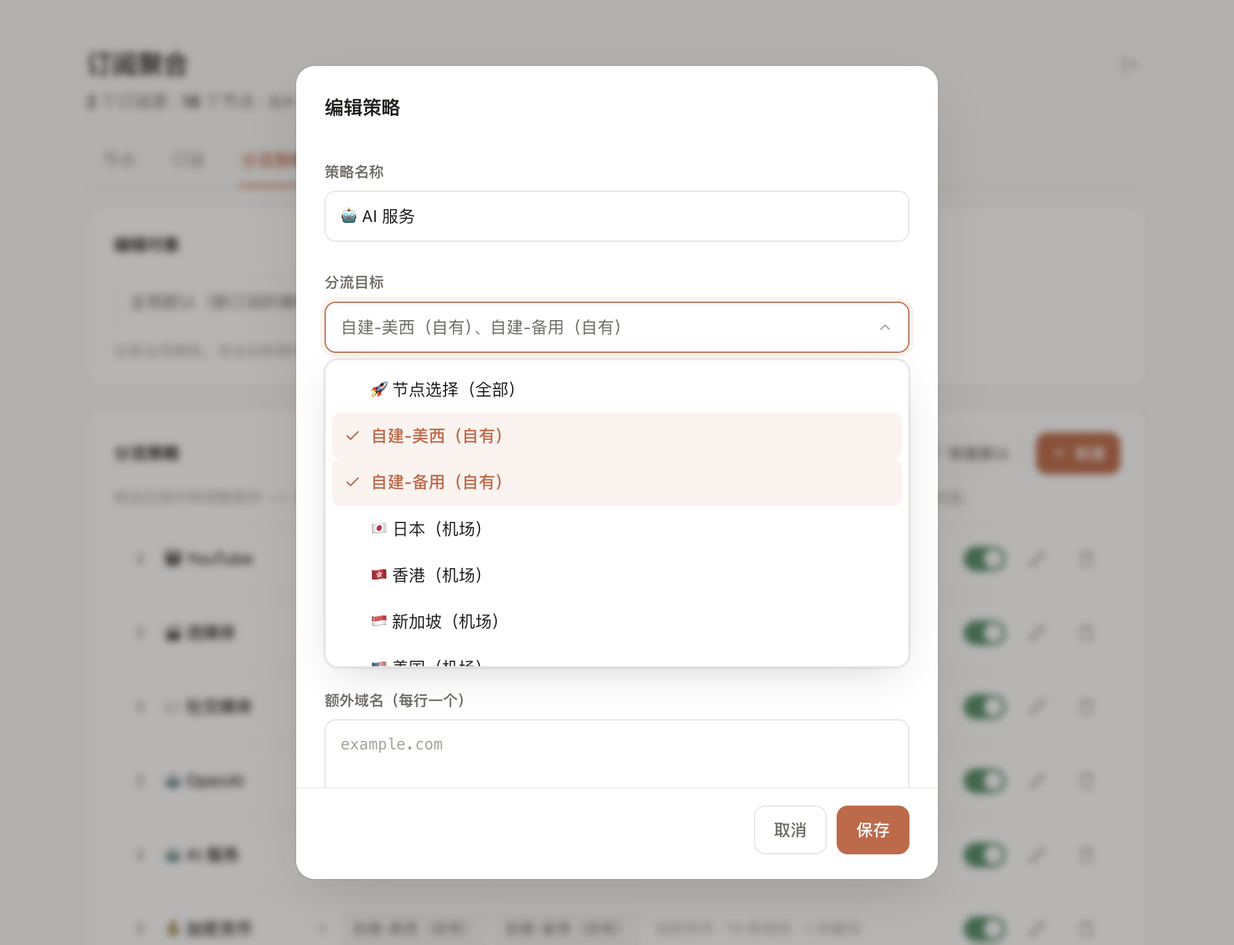
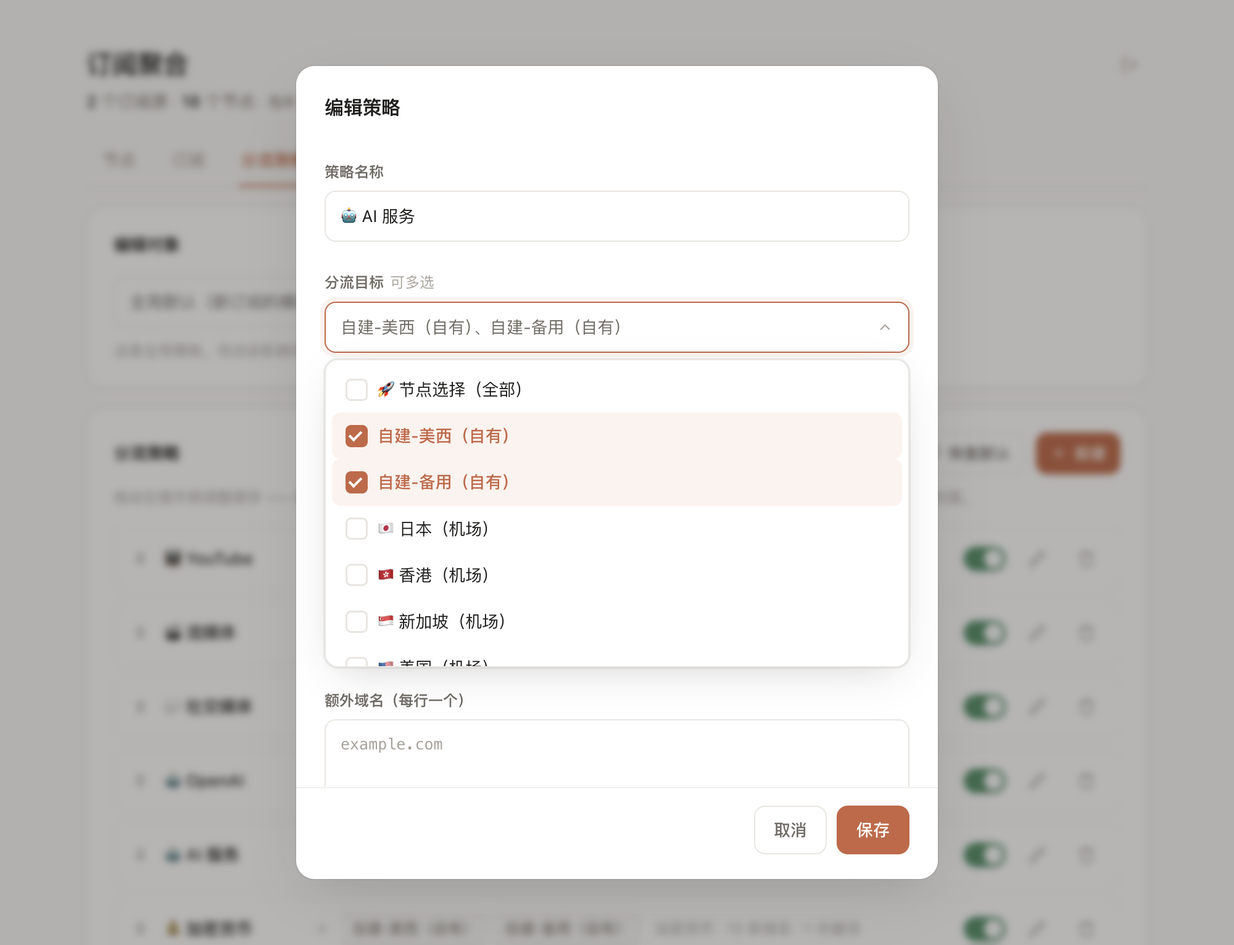
feat: 分流目标多选可见化，拖拽落点改为虚线空槽
多选一直是支持的，但只选一项时下拉长得和单选一模一样，没人会去点第二下。
补上常驻复选框、「可多选」标签、「（已选 N 项）」计数，让能力自己说话。

拖拽时原行只是淡化，浏览器另外渲染的拖影叠在上面，看着像重影。
改成整行退成虚线空槽（内容 opacity:0 但保留行高），落点一目了然。

测试补两组断言防回归，README 同步截图与断言数。

diff --git a/docs/demo.html b/docs/demo.html
@@ -94,8 +94,21 @@ input::placeholder,textarea::placeholder{color:var(--tx3)}
 .selo{padding:8px 10px;border-radius:7px;font-size:13.5px;cursor:pointer;display:flex;align-items:center;gap:8px;transition:background .12s}
 .selo:hover{background:var(--hov)}
 .selo.on{color:var(--acc);font-weight:500}
+/* 多选：左侧常驻复选框。只在选中时显示对勾的话，外观和单选毫无区别，
+   用户根本看不出能多选。 */
+.sel.multi .selo{position:relative;padding-left:11px}
+.sel.multi .selo .ic{display:none}
+.sel.multi .selo::before{content:'';flex-shrink:0;width:15px;height:15px;border-radius:4.5px;
+  border:1.5px solid var(--bd);background:var(--card);transition:background .14s var(--e),border-color .14s var(--e)}
+.sel.multi .selo::after{content:'';position:absolute;left:16px;top:50%;width:4px;height:8px;
+  border:2px solid #fff;border-top:0;border-left:0;transform:translateY(-62%) rotate(45deg);
+  opacity:0;transition:opacity .14s var(--e)}
+.sel.multi .selo:hover::before{border-color:var(--tx3)}
+.sel.multi .selo.on::before{background:var(--acc);border-color:var(--acc)}
+.sel.multi .selo.on::after{opacity:1}
 .sel.multi .selo.on{background:var(--accBg)}
 .sel.multi .selp{padding-bottom:5px}
+.lb .opt{font-weight:400;color:var(--tx3);margin-left:5px}
 .selo .ic{opacity:0}
 .selo.on .ic{opacity:1}
 
@@ -109,10 +122,11 @@ input::placeholder,textarea::placeholder{color:var(--tx3)}
 /* 策略行 */
 .pol{display:flex;gap:11px;align-items:center;padding:11px 12px;border:1px solid var(--bd2);border-radius:11px;margin-bottom:7px;background:var(--card);transition:border-color .16s var(--e),background .16s var(--e),opacity .16s,box-shadow .16s var(--e)}
 .pol:hover{border-color:var(--bd);background:var(--hov)}
-/* 拖拽中：内容保持可见，只淡化微缩。早先用 visibility:hidden 抹掉内容，
-   行高还占着，看起来像列表中间破了个洞。 */
-.pol.drag{opacity:.38;transform:scale(.985);background:var(--hov);border-color:var(--accBd)}
-.pol.drag .grip{color:var(--acc)}
+/* 拖拽中：原行退成虚线空槽，作为落点指示。
+   浏览器会另外渲染一张跟随鼠标的元素快照，原行若还留着淡淡的内容，
+   两者叠在一起就是重影。用 opacity:0 抹掉内容但保留行高。 */
+.pol.drag{background:var(--accBg);border:1.5px dashed var(--accBd);box-shadow:none}
+.pol.drag > *{opacity:0}
 .pol{cursor:default}
 .pol[draggable="true"]{cursor:grabbing}
 .pol.off{opacity:.5}
@@ -258,7 +272,7 @@ const authed = true, inited = true
 const app = document.getElementById('app')
 const tsBox = document.getElementById('toasts')
 const esc = s => String(s).replace(/[&<>"']/g, c => ({'&':'&amp;','<':'&lt;','>':'&gt;','"':'&quot;',"'":'&#39;'}[c]))
-const S={"ok":true,"at":1785843324501,"stale":false,"errors":[],"subUrl":"https://sub.example.com/sub?token=TOKEN-EXAMPLE","upstreams":[{"id":"a1","name":"示例机场 A","url":"https://a.example.com/api/v1/client/subscribe?token=xxxx","enabled":true},{"id":"a2","name":"示例机场 B","url":"https://b.example.com/sub?token=yyyy","enabled":true}],"meta":{"a1":{"up":98135617755,"down":321529098078,"total":1288490188800,"expire":1786361724},"a2":{"up":0,"down":966367641600,"total":1073741824000,"expire":1801395324}},"bySrc":{"jp":{"示例机场 A":4},"hk":{"示例机场 A":4,"示例机场 B":2},"sg":{"示例机场 B":3},"us":{"示例机场 B":5}},"regions":[{"key":"jp","flag":"🇯🇵","cn":"日本","nodes":[{"key":"jp::0","name":"🇯🇵 日本 01","auto":"🇯🇵 日本 01","raw":"2x专线-日本-1","upName":"示例机场 A","custom":false,"off":false},{"key":"jp::1","name":"🇯🇵 东京主力","auto":"🇯🇵 日本 02","raw":"2x专线-日本-2","upName":"示例机场 A","custom":true,"off":false},{"key":"jp::2","name":"🇯🇵 日本 03","auto":"🇯🇵 日本 03","raw":"2x专线-日本-3","upName":"示例机场 A","custom":false,"off":false},{"key":"jp::3","name":"🇯🇵 日本 04","auto":"🇯🇵 日本 04","raw":"2x专线-日本-4","upName":"示例机场 A","custom":false,"off":false}]},{"key":"hk","flag":"🇭🇰","cn":"香港","nodes":[{"key":"hk::0","name":"🇭🇰 香港 01","auto":"🇭🇰 香港 01","raw":"2x专线-香港-1","upName":"示例机场 A","custom":false,"off":false},{"key":"hk::1","name":"🇭🇰 香港 02","auto":"🇭🇰 香港 02","raw":"2x专线-香港-2","upName":"示例机场 A","custom":false,"off":false},{"key":"hk::2","name":"🇭🇰 香港 03","auto":"🇭🇰 香港 03","raw":"2x专线-香港-3","upName":"示例机场 A","custom":false,"off":false},{"key":"hk::3","name":"🇭🇰 香港 04","auto":"🇭🇰 香港 04","raw":"2x专线-香港-4","upName":"示例机场 A","custom":false,"off":false},{"key":"hk::4","name":"🇭🇰 香港 05","auto":"🇭🇰 香港 05","raw":"2x专线-香港-5","upName":"示例机场 A","custom":false,"off":false},{"key":"hk::5","name":"🇭🇰 香港 06","auto":"🇭🇰 香港 06","raw":"2x专线-香港-6","upName":"示例机场 A","custom":false,"off":false}]},{"key":"sg","flag":"🇸🇬","cn":"新加坡","nodes":[{"key":"sg::0","name":"🇸🇬 新加坡 01","auto":"🇸🇬 新加坡 01","raw":"2x专线-新加坡-1","upName":"示例机场 B","custom":false,"off":false},{"key":"sg::1","name":"🇸🇬 新加坡 02","auto":"🇸🇬 新加坡 02","raw":"2x专线-新加坡-2","upName":"示例机场 B","custom":false,"off":false},{"key":"sg::2","name":"🇸🇬 新加坡 03","auto":"🇸🇬 新加坡 03","raw":"2x专线-新加坡-3","upName":"示例机场 B","custom":false,"off":false}]},{"key":"us","flag":"🇺🇸","cn":"美国","nodes":[{"key":"us::0","name":"🇺🇸 美国 01","auto":"🇺🇸 美国 01","raw":"2x专线-美国-1","upName":"示例机场 B","custom":false,"off":false},{"key":"us::1","name":"🇺🇸 美国 02","auto":"🇺🇸 美国 02","raw":"2x专线-美国-2","upName":"示例机场 B","custom":false,"off":false},{"key":"us::2","name":"🇺🇸 美国 03","auto":"🇺🇸 美国 03","raw":"2x专线-美国-3","upName":"示例机场 B","custom":false,"off":false},{"key":"us::3","name":"🇺🇸 美国 04","auto":"🇺🇸 美国 04","raw":"2x专线-美国-4","upName":"示例机场 B","custom":false,"off":false},{"key":"us::4","name":"🇺🇸 美国 05","auto":"🇺🇸 美国 05","raw":"2x专线-美国-5","upName":"示例机场 B","custom":false,"off":false}]}]};const R={"ok":true,"newToken":"TOKEN-EXAMPLE-NEW-000000000000","profiles":[{"id":"main","name":"主订阅","token":"TOKEN-EXAMPLE-MAIN-0000000000000","enabled":true,"own":"all","ups":"all","regions":"all","pols":"all","policies":"inherit","mode":"whitelist","note":""},{"id":"f2","name":"手机","token":"TOKEN-EXAMPLE-PHONE-000000000000","enabled":true,"own":["a"],"ups":"all","regions":["jp","hk"],"pols":"all","policies":[{"id":"ai","name":"🤖 AI 服务"},{"id":"m","name":"📺 YouTube"}],"mode":"blacklist","note":"省电，精简策略"},{"id":"f3","name":"共享给朋友","token":"TOKEN-EXAMPLE-SHARED-00000000000","enabled":true,"own":[],"ups":["a1"],"regions":["jp","sg"],"pols":"all","policies":"inherit","mode":"whitelist","note":"不含自建节点"}],"opts":{"own":[{"v":"a","label":"自建-美西"},{"v":"b","label":"自建-备用"}],"ups":[{"v":"a1","label":"示例机场 A"},{"v":"a2","label":"示例机场 B"}],"regions":[{"v":"jp","label":"🇯🇵 日本"},{"v":"hk","label":"🇭🇰 香港"},{"v":"sg","label":"🇸🇬 新加坡"},{"v":"us","label":"🇺🇸 美国"}],"pols":[{"v":"youtube","label":"📺 YouTube"},{"v":"media","label":"🎬 流媒体"},{"v":"social","label":"💬 社交媒体"},{"v":"openai","label":"🤖 OpenAI"},{"v":"ai","label":"🤖 AI 服务"},{"v":"crypto","label":"💰 加密货币"},{"v":"tg","label":"✈ Telegram"},{"v":"dev","label":"⚙ 开发者"},{"v":"apple","label":"🍎 Apple"},{"v":"ms","label":"🪟 Microsoft"},{"v":"misc","label":"🌐 常用境外"}]}};const G=[{"id":"youtube","name":"📺 YouTube","target":"region:jp","strict":false,"presets":["youtube"],"domains":[],"keywords":[],"processes":[],"enabled":true},{"id":"media","name":"🎬 流媒体","target":"region:jp","strict":false,"presets":["media"],"domains":[],"keywords":[],"processes":[],"enabled":true},{"id":"social","name":"💬 社交媒体","target":"region:jp","strict":false,"presets":["social"],"domains":[],"keywords":[],"processes":[],"enabled":true},{"id":"openai","name":"🤖 OpenAI","target":["own:a","own:b"],"strict":true,"presets":["openai"],"domains":[],"keywords":[],"processes":["ChatGPT"],"enabled":true},{"id":"ai","name":"🤖 AI 服务","target":["own:a","own:b"],"strict":true,"presets":["ai","aitest","google"],"domains":[],"keywords":[],"processes":[],"enabled":true},{"id":"crypto","name":"💰 加密货币","target":["own:a","own:b"],"strict":false,"presets":["crypto"],"domains":[],"keywords":["binance"],"processes":[],"enabled":true},{"id":"tg","name":"✈ Telegram","target":"all","strict":false,"presets":["telegram"],"domains":[],"keywords":[],"processes":[],"enabled":true},{"id":"dev","name":"⚙ 开发者","target":"all","strict":false,"presets":["dev"],"domains":[],"keywords":[],"processes":[],"enabled":true},{"id":"apple","name":"🍎 Apple","target":"direct","strict":false,"presets":["apple"],"domains":[],"keywords":[],"processes":[],"enabled":true},{"id":"ms","name":"🪟 Microsoft","target":"direct","strict":false,"presets":["microsoft"],"domains":[],"keywords":[],"processes":[],"enabled":true},{"id":"misc","name":"🌐 常用境外","target":"all","strict":false,"presets":["misc"],"domains":[],"keywords":[],"processes":[],"enabled":true}];const LIB={"openai":{"name":"OpenAI","hint":"ChatGPT 全链路，含认证/支付/风控依赖","domains":["chatgpt.com","openai.com","oaistatic.com","oaiusercontent.com","chat.openai.com","desktop.chat.openai.com","ios.chat.openai.com","android.chat.openai.com","auth.openai.com","auth0.openai.com","setup.auth.openai.com","cdn.workos.com","setup.workos.com","forwarder.workos.com","images.workoscdn.com","workos.imgix.net","ct.sendgrid.net","js.stripe.com","stripe.com","statsig.com","statsigapi.net","events.statsigapi.net","featuregates.org","featureassets.org","prodregistryv2.org","intercom.io","intercomcdn.com","js.intercomcdn.com","rum.browser-intake-datadoghq.com","browser-intake-datadoghq.com","o207216.ingest.sentry.io","o33249.ingest.sentry.io","sentry.io","chatgpt.livekit.cloud","host.livekit.cloud","turn.livekit.cloud","challenges.cloudflare.com","client-api.arkoselabs.com","openai-api.arkoselabs.com","static.cloudflareinsights.com","algolia.net","auth0.com","launchdarkly.com","segment.io","openaiapi-site.azureedge.net","production-openaicom-storage.azureedge.net","openaicomproductionae4b.blob.core.windows.net","openaicom-api-bdcpf8c6d2e9atf6.z01.azurefd.net"]},"ai":{"name":"AI 服务","hint":"Claude / Gemini / DeepSeek / Copilot 等","domains":["anthropic.com","claude.ai","api.anthropic.com","googleapis.com","gemini.google.com","generativelanguage.googleapis.com","bard.google.com","deepmind.google","aistudio.google.com","cohere.ai","api.cohere.ai","mistral.ai","api.mistral.ai","perplexity.ai","perplexity.com","githubcopilot.com","copilot.microsoft.com","huggingface.co","together.xyz","fireworks.ai","groq.com","api.groq.com","deepseek.com","api.deepseek.com","x.ai","grok.com","moonshot.cn","bigmodel.cn"]},"aitest":{"name":"IP 检测","hint":"验证出口用，务必与服务端 ai-proxy 表保持一致","domains":["ping0.cc","ip.net.coffee"]},"google":{"name":"Google","hint":"账号基础设施；不整族同出口会被判定异地","domains":["google.com","gstatic.com","googleusercontent.com","google.cn","googlesource.com","googletagmanager.com","google-analytics.com","dns.google","withgoogle.com","goo.gl","ggpht.com"]},"media":{"name":"流媒体","hint":"Netflix / Disney+ / Spotify / Twitch 等","domains":["netflix.com","nflxvideo.net","nflximg.net","nflxext.com","nflxso.net","spotify.com","scdn.co","spotifycdn.com","disneyplus.com","dssott.com","bamgrid.com","disney-plus.net","hulu.com","hbomax.com","max.com","primevideo.com","aiv-cdn.net","twitch.tv","ttvnw.net","jtvnw.net","crunchyroll.com","abema.tv","nicovideo.jp","bilibili.tv","iq.com","viu.com"]},"youtube":{"name":"YouTube","hint":"含 API 与 CDN；须排在 Google 规则之前","domains":["youtube.com","youtu.be","googlevideo.com","ytimg.com","youtube-nocookie.com","youtubei.googleapis.com","yt3.ggpht.com"]},"social":{"name":"社交媒体","hint":"X / Meta 系 / TikTok / Reddit 等","domains":["twitter.com","x.com","t.co","twimg.com","twitterinc.com","instagram.com","cdninstagram.com","facebook.com","fbcdn.net","messenger.com","threads.net","whatsapp.com","tiktok.com","tiktokv.com","tiktokcdn.com","tiktokcdn-us.com","byteoversea.com","ibytedtos.com","muscdn.com","musical.ly","reddit.com","redditmedia.com","redd.it","redditstatic.com","discord.com","discord.gg","discordapp.com","discordapp.net","pinterest.com","tumblr.com","pixiv.net","pximg.net","medium.com","quora.com"]},"telegram":{"name":"Telegram","hint":"含 DC 网段，建议配合 IP-CIDR","domains":["telegram.org","t.me","telegram.me","telesco.pe","tdesktop.com","telegra.ph"]},"apple":{"name":"Apple","hint":"默认直连更快；跨区账号才需走代理","domains":["apple.com","icloud.com","icloud-content.com","mzstatic.com","apple-cloudkit.com","cdn-apple.com","apple.news","applemusic.com","itunes.com","me.com","aaplimg.com"]},"microsoft":{"name":"Microsoft","hint":"Office / OneDrive / Teams / Xbox","domains":["microsoft.com","microsoftonline.com","office.com","office365.com","live.com","windows.net","windowsupdate.com","msftconnecttest.com","sharepoint.com","onedrive.com","skype.com","teams.microsoft.com","xbox.com","xboxlive.com","msn.com","bing.com"]},"dev":{"name":"开发者","hint":"GitHub / npm / Docker / StackOverflow","domains":["github.com","github.io","githubusercontent.com","githubassets.com","gitlab.com","bitbucket.org","npmjs.com","npmjs.org","yarnpkg.com","docker.com","docker.io","pypi.org","pythonhosted.org","rubygems.org","crates.io","golang.org","go.dev","stackoverflow.com","stackexchange.com","sourceforge.net","jsdelivr.net","unpkg.com"]},"crypto":{"name":"加密货币","hint":"交易所与行情站","domains":["binance.com","binance.us","okx.com","bybit.com","coinbase.com","kraken.com","huobi.com","gate.io","kucoin.com","bitfinex.com","coinmarketcap.com","coingecko.com","tradingview.com"]},"misc":{"name":"常用境外站","hint":"Wikipedia / 归档 / 视频等","domains":["wikipedia.org","wikimedia.org","archive.org","vimeo.com","dailymotion.com","imgur.com","patreon.com","producthunt.com","notion.so","figma.com","dropbox.com","slack.com","zoom.us","steamcommunity.com","steampowered.com"]}};const TG=[{"v":"all","label":"🚀 节点选择（全部）"},{"v":"own:a","label":"自建-美西（自有）"},{"v":"own:b","label":"自建-备用（自有）"},{"v":"region:jp","label":"🇯🇵 日本（机场）"},{"v":"region:hk","label":"🇭🇰 香港（机场）"},{"v":"region:sg","label":"🇸🇬 新加坡（机场）"},{"v":"region:us","label":"🇺🇸 美国（机场）"},{"v":"direct","label":"直连"},{"v":"reject","label":"拒绝"}];const OW={"a":{"name":"自建-美西","type":"vless","s":"node.example.com","p":443,"u":"11111111-2222-3333-4444-555555555555","sni":"www.bing.com","pk":"PLACEHOLDERPUBKEY000000000000000000000000","sid":"0123456789abcdef","net":"tcp","flow":"xtls-rprx-vision"},"b":{"name":"自建-备用","type":"hysteria2","s":"node.example.com","p":8443,"ports":"50000-50020","u":"11111111-2222-3333-4444-555555555555","sni":"node.example.com","obfs":"salamander","opwd":"obfspass"}};
+const S={"ok":true,"at":1785848668086,"stale":false,"errors":[],"subUrl":"https://sub.example.com/sub?token=TOKEN-EXAMPLE","upstreams":[{"id":"a1","name":"示例机场 A","url":"https://a.example.com/api/v1/client/subscribe?token=xxxx","enabled":true},{"id":"a2","name":"示例机场 B","url":"https://b.example.com/sub?token=yyyy","enabled":true}],"meta":{"a1":{"up":98135617755,"down":321529098078,"total":1288490188800,"expire":1786367068},"a2":{"up":0,"down":966367641600,"total":1073741824000,"expire":1801400668}},"bySrc":{"jp":{"示例机场 A":4},"hk":{"示例机场 A":4,"示例机场 B":2},"sg":{"示例机场 B":3},"us":{"示例机场 B":5}},"regions":[{"key":"jp","flag":"🇯🇵","cn":"日本","nodes":[{"key":"jp::0","name":"🇯🇵 日本 01","auto":"🇯🇵 日本 01","raw":"2x专线-日本-1","upName":"示例机场 A","custom":false,"off":false},{"key":"jp::1","name":"🇯🇵 东京主力","auto":"🇯🇵 日本 02","raw":"2x专线-日本-2","upName":"示例机场 A","custom":true,"off":false},{"key":"jp::2","name":"🇯🇵 日本 03","auto":"🇯🇵 日本 03","raw":"2x专线-日本-3","upName":"示例机场 A","custom":false,"off":false},{"key":"jp::3","name":"🇯🇵 日本 04","auto":"🇯🇵 日本 04","raw":"2x专线-日本-4","upName":"示例机场 A","custom":false,"off":false}]},{"key":"hk","flag":"🇭🇰","cn":"香港","nodes":[{"key":"hk::0","name":"🇭🇰 香港 01","auto":"🇭🇰 香港 01","raw":"2x专线-香港-1","upName":"示例机场 A","custom":false,"off":false},{"key":"hk::1","name":"🇭🇰 香港 02","auto":"🇭🇰 香港 02","raw":"2x专线-香港-2","upName":"示例机场 A","custom":false,"off":false},{"key":"hk::2","name":"🇭🇰 香港 03","auto":"🇭🇰 香港 03","raw":"2x专线-香港-3","upName":"示例机场 A","custom":false,"off":false},{"key":"hk::3","name":"🇭🇰 香港 04","auto":"🇭🇰 香港 04","raw":"2x专线-香港-4","upName":"示例机场 A","custom":false,"off":false},{"key":"hk::4","name":"🇭🇰 香港 05","auto":"🇭🇰 香港 05","raw":"2x专线-香港-5","upName":"示例机场 A","custom":false,"off":false},{"key":"hk::5","name":"🇭🇰 香港 06","auto":"🇭🇰 香港 06","raw":"2x专线-香港-6","upName":"示例机场 A","custom":false,"off":false}]},{"key":"sg","flag":"🇸🇬","cn":"新加坡","nodes":[{"key":"sg::0","name":"🇸🇬 新加坡 01","auto":"🇸🇬 新加坡 01","raw":"2x专线-新加坡-1","upName":"示例机场 B","custom":false,"off":false},{"key":"sg::1","name":"🇸🇬 新加坡 02","auto":"🇸🇬 新加坡 02","raw":"2x专线-新加坡-2","upName":"示例机场 B","custom":false,"off":false},{"key":"sg::2","name":"🇸🇬 新加坡 03","auto":"🇸🇬 新加坡 03","raw":"2x专线-新加坡-3","upName":"示例机场 B","custom":false,"off":false}]},{"key":"us","flag":"🇺🇸","cn":"美国","nodes":[{"key":"us::0","name":"🇺🇸 美国 01","auto":"🇺🇸 美国 01","raw":"2x专线-美国-1","upName":"示例机场 B","custom":false,"off":false},{"key":"us::1","name":"🇺🇸 美国 02","auto":"🇺🇸 美国 02","raw":"2x专线-美国-2","upName":"示例机场 B","custom":false,"off":false},{"key":"us::2","name":"🇺🇸 美国 03","auto":"🇺🇸 美国 03","raw":"2x专线-美国-3","upName":"示例机场 B","custom":false,"off":false},{"key":"us::3","name":"🇺🇸 美国 04","auto":"🇺🇸 美国 04","raw":"2x专线-美国-4","upName":"示例机场 B","custom":false,"off":false},{"key":"us::4","name":"🇺🇸 美国 05","auto":"🇺🇸 美国 05","raw":"2x专线-美国-5","upName":"示例机场 B","custom":false,"off":false}]}]};const R={"ok":true,"newToken":"TOKEN-EXAMPLE-NEW-000000000000","profiles":[{"id":"main","name":"主订阅","token":"TOKEN-EXAMPLE-MAIN-0000000000000","enabled":true,"own":"all","ups":"all","regions":"all","pols":"all","policies":"inherit","mode":"whitelist","note":""},{"id":"f2","name":"手机","token":"TOKEN-EXAMPLE-PHONE-000000000000","enabled":true,"own":["a"],"ups":"all","regions":["jp","hk"],"pols":"all","policies":[{"id":"ai","name":"AI"},{"id":"m","name":"YouTube"}],"mode":"blacklist","note":"省电，精简策略"},{"id":"f3","name":"共享给朋友","token":"TOKEN-EXAMPLE-SHARED-00000000000","enabled":true,"own":[],"ups":["a1"],"regions":["jp","sg"],"pols":"all","policies":"inherit","mode":"whitelist","note":"不含自建节点"}],"opts":{"own":[{"v":"a","label":"自建-美西"},{"v":"b","label":"自建-备用"}],"ups":[{"v":"a1","label":"示例机场 A"},{"v":"a2","label":"示例机场 B"}],"regions":[{"v":"jp","label":"🇯🇵 日本"},{"v":"hk","label":"🇭🇰 香港"},{"v":"sg","label":"🇸🇬 新加坡"},{"v":"us","label":"🇺🇸 美国"}],"pols":[{"v":"youtube","label":"📺 YouTube"},{"v":"media","label":"🎬 流媒体"},{"v":"social","label":"💬 社交媒体"},{"v":"openai","label":"🤖 OpenAI"},{"v":"ai","label":"🤖 AI 服务"},{"v":"crypto","label":"💰 加密货币"},{"v":"tg","label":"✈ Telegram"},{"v":"dev","label":"⚙ 开发者"},{"v":"apple","label":"🍎 Apple"},{"v":"ms","label":"🪟 Microsoft"},{"v":"misc","label":"🌐 常用境外"}]}};const G=[{"id":"youtube","name":"📺 YouTube","target":"region:jp","strict":false,"presets":["youtube"],"domains":[],"keywords":[],"processes":[],"enabled":true},{"id":"media","name":"🎬 流媒体","target":"region:jp","strict":false,"presets":["media"],"domains":[],"keywords":[],"processes":[],"enabled":true},{"id":"social","name":"💬 社交媒体","target":"region:jp","strict":false,"presets":["social"],"domains":[],"keywords":[],"processes":[],"enabled":true},{"id":"openai","name":"🤖 OpenAI","target":["own:a","own:b"],"strict":true,"presets":["openai"],"domains":[],"keywords":[],"processes":["ChatGPT"],"enabled":true},{"id":"ai","name":"🤖 AI 服务","target":["own:a","own:b"],"strict":true,"presets":["ai","aitest","google"],"domains":[],"keywords":[],"processes":[],"enabled":true},{"id":"crypto","name":"💰 加密货币","target":["own:a","own:b"],"strict":false,"presets":["crypto"],"domains":[],"keywords":["binance"],"processes":[],"enabled":true},{"id":"tg","name":"✈ Telegram","target":"all","strict":false,"presets":["telegram"],"domains":[],"keywords":[],"processes":[],"enabled":true},{"id":"dev","name":"⚙ 开发者","target":"all","strict":false,"presets":["dev"],"domains":[],"keywords":[],"processes":[],"enabled":true},{"id":"apple","name":"🍎 Apple","target":"direct","strict":false,"presets":["apple"],"domains":[],"keywords":[],"processes":[],"enabled":true},{"id":"ms","name":"🪟 Microsoft","target":"direct","strict":false,"presets":["microsoft"],"domains":[],"keywords":[],"processes":[],"enabled":true},{"id":"misc","name":"🌐 常用境外","target":"all","strict":false,"presets":["misc"],"domains":[],"keywords":[],"processes":[],"enabled":true}];const LIB={"openai":{"name":"OpenAI","hint":"ChatGPT 全链路，含认证/支付/风控依赖","domains":["chatgpt.com","openai.com","oaistatic.com","oaiusercontent.com","chat.openai.com","desktop.chat.openai.com","ios.chat.openai.com","android.chat.openai.com","auth.openai.com","auth0.openai.com","setup.auth.openai.com","cdn.workos.com","setup.workos.com","forwarder.workos.com","images.workoscdn.com","workos.imgix.net","ct.sendgrid.net","js.stripe.com","stripe.com","statsig.com","statsigapi.net","events.statsigapi.net","featuregates.org","featureassets.org","prodregistryv2.org","intercom.io","intercomcdn.com","js.intercomcdn.com","rum.browser-intake-datadoghq.com","browser-intake-datadoghq.com","o207216.ingest.sentry.io","o33249.ingest.sentry.io","sentry.io","chatgpt.livekit.cloud","host.livekit.cloud","turn.livekit.cloud","challenges.cloudflare.com","client-api.arkoselabs.com","openai-api.arkoselabs.com","static.cloudflareinsights.com","algolia.net","auth0.com","launchdarkly.com","segment.io","openaiapi-site.azureedge.net","production-openaicom-storage.azureedge.net","openaicomproductionae4b.blob.core.windows.net","openaicom-api-bdcpf8c6d2e9atf6.z01.azurefd.net"]},"ai":{"name":"AI 服务","hint":"Claude / Gemini / DeepSeek / Copilot 等","domains":["anthropic.com","claude.ai","api.anthropic.com","googleapis.com","gemini.google.com","generativelanguage.googleapis.com","bard.google.com","deepmind.google","aistudio.google.com","cohere.ai","api.cohere.ai","mistral.ai","api.mistral.ai","perplexity.ai","perplexity.com","githubcopilot.com","copilot.microsoft.com","huggingface.co","together.xyz","fireworks.ai","groq.com","api.groq.com","deepseek.com","api.deepseek.com","x.ai","grok.com","moonshot.cn","bigmodel.cn"]},"aitest":{"name":"IP 检测","hint":"验证出口用，务必与服务端 ai-proxy 表保持一致","domains":["ping0.cc","ip.net.coffee"]},"google":{"name":"Google","hint":"账号基础设施；不整族同出口会被判定异地","domains":["google.com","gstatic.com","googleusercontent.com","google.cn","googlesource.com","googletagmanager.com","google-analytics.com","dns.google","withgoogle.com","goo.gl","ggpht.com"]},"media":{"name":"流媒体","hint":"Netflix / Disney+ / Spotify / Twitch 等","domains":["netflix.com","nflxvideo.net","nflximg.net","nflxext.com","nflxso.net","spotify.com","scdn.co","spotifycdn.com","disneyplus.com","dssott.com","bamgrid.com","disney-plus.net","hulu.com","hbomax.com","max.com","primevideo.com","aiv-cdn.net","twitch.tv","ttvnw.net","jtvnw.net","crunchyroll.com","abema.tv","nicovideo.jp","bilibili.tv","iq.com","viu.com"]},"youtube":{"name":"YouTube","hint":"含 API 与 CDN；须排在 Google 规则之前","domains":["youtube.com","youtu.be","googlevideo.com","ytimg.com","youtube-nocookie.com","youtubei.googleapis.com","yt3.ggpht.com"]},"social":{"name":"社交媒体","hint":"X / Meta 系 / TikTok / Reddit 等","domains":["twitter.com","x.com","t.co","twimg.com","twitterinc.com","instagram.com","cdninstagram.com","facebook.com","fbcdn.net","messenger.com","threads.net","whatsapp.com","tiktok.com","tiktokv.com","tiktokcdn.com","tiktokcdn-us.com","byteoversea.com","ibytedtos.com","muscdn.com","musical.ly","reddit.com","redditmedia.com","redd.it","redditstatic.com","discord.com","discord.gg","discordapp.com","discordapp.net","pinterest.com","tumblr.com","pixiv.net","pximg.net","medium.com","quora.com"]},"telegram":{"name":"Telegram","hint":"含 DC 网段，建议配合 IP-CIDR","domains":["telegram.org","t.me","telegram.me","telesco.pe","tdesktop.com","telegra.ph"]},"apple":{"name":"Apple","hint":"默认直连更快；跨区账号才需走代理","domains":["apple.com","icloud.com","icloud-content.com","mzstatic.com","apple-cloudkit.com","cdn-apple.com","apple.news","applemusic.com","itunes.com","me.com","aaplimg.com"]},"microsoft":{"name":"Microsoft","hint":"Office / OneDrive / Teams / Xbox","domains":["microsoft.com","microsoftonline.com","office.com","office365.com","live.com","windows.net","windowsupdate.com","msftconnecttest.com","sharepoint.com","onedrive.com","skype.com","teams.microsoft.com","xbox.com","xboxlive.com","msn.com","bing.com"]},"dev":{"name":"开发者","hint":"GitHub / npm / Docker / StackOverflow","domains":["github.com","github.io","githubusercontent.com","githubassets.com","gitlab.com","bitbucket.org","npmjs.com","npmjs.org","yarnpkg.com","docker.com","docker.io","pypi.org","pythonhosted.org","rubygems.org","crates.io","golang.org","go.dev","stackoverflow.com","stackexchange.com","sourceforge.net","jsdelivr.net","unpkg.com"]},"crypto":{"name":"加密货币","hint":"交易所与行情站","domains":["binance.com","binance.us","okx.com","bybit.com","coinbase.com","kraken.com","huobi.com","gate.io","kucoin.com","bitfinex.com","coinmarketcap.com","coingecko.com","tradingview.com"]},"misc":{"name":"常用境外站","hint":"Wikipedia / 归档 / 视频等","domains":["wikipedia.org","wikimedia.org","archive.org","vimeo.com","dailymotion.com","imgur.com","patreon.com","producthunt.com","notion.so","figma.com","dropbox.com","slack.com","zoom.us","steamcommunity.com","steampowered.com"]}};const TG=[{"v":"all","label":"🚀 节点选择（全部）"},{"v":"own:a","label":"自建-美西（自有）"},{"v":"own:b","label":"自建-备用（自有）"},{"v":"region:jp","label":"🇯🇵 日本（机场）"},{"v":"region:hk","label":"🇭🇰 香港（机场）"},{"v":"region:sg","label":"🇸🇬 新加坡（机场）"},{"v":"region:us","label":"🇺🇸 美国（机场）"},{"v":"direct","label":"直连"},{"v":"reject","label":"拒绝"}];const OW={"a":{"name":"自建-美西","type":"vless","s":"node.example.com","p":443,"u":"11111111-2222-3333-4444-555555555555","sni":"www.bing.com","pk":"PLACEHOLDERPUBKEY000000000000000000000000","sid":"0123456789abcdef","net":"tcp","flow":"xtls-rprx-vision"},"b":{"name":"自建-备用","type":"hysteria2","s":"node.example.com","p":8443,"ports":"50000-50020","u":"11111111-2222-3333-4444-555555555555","sni":"node.example.com","obfs":"salamander","opwd":"obfspass"}};
 const api=async(p,b)=>{await new Promise(r=>setTimeout(r,10));
  if(p==='/api/state')return JSON.parse(JSON.stringify(S));
  if(p==='/api/settings')return {ok:true,settings:{domain:'sub.example.com',directDomains:['api.example.com'],directIPs:['203.0.113.10']}};
@@ -350,8 +364,9 @@ function selectHTML(id, opts, val, multi){
 function selLabel(opts, picked, multi){
   const names = picked.map(v => (opts.find(o => o.v === v) || {}).label).filter(Boolean)
   if (!names.length) return multi ? '未选择' : (opts[0] || {}).label || ''
-  if (!multi || names.length === 1) return names[0]
-  return names.length <= 2 ? names.join('、') : `${names[0]} 等 ${names.length} 项`
+  if (!multi) return names[0]
+  if (names.length === 1) return names[0] + '（已选 1 项）'
+  return names.length === 2 ? names.join('、') : `${names[0]} 等 ${names.length} 项`
 }
 // 读取当前值：单选得字符串，多选得数组
 function selValue(sel){
@@ -1019,9 +1034,9 @@ window.editPol = async (i) => {
   const html = `
     <div class="fg"><label class="lb">策略名称</label>
       <input id="pn" value="${esc(p.name)}" placeholder="如 🎬 流媒体"></div>
-    <div class="fg"><label class="lb">分流目标</label>
+    <div class="fg"><label class="lb">分流目标<span class="opt">可多选</span></label>
       ${selectHTML('pt', POL.targets, Array.isArray(p.target) ? p.target : [p.target || 'all'], true)}
-      <div class="hint">可多选。选中的会按顺序放进该策略的节点组，客户端里可自行切换；第一个为默认。</div></div>
+      <div class="hint">选中的会按顺序放进该策略的节点组，客户端里可自行切换，第一个为默认。</div></div>
     <div class="fg"><label class="lb">严格模式</label>
       <div class="row"><button class="sw" id="ps" data-on="${p.strict?1:0}"><i></i></button>
         <span class="hint" style="margin:0">开启后组内只有目标本身，目标不可用即断流，不会静默回落到其它地区。</span></div></div>

diff --git a/worker.js b/worker.js
@@ -1400,8 +1400,21 @@ input::placeholder,textarea::placeholder{color:var(--tx3)}
 .selo{padding:8px 10px;border-radius:7px;font-size:13.5px;cursor:pointer;display:flex;align-items:center;gap:8px;transition:background .12s}
 .selo:hover{background:var(--hov)}
 .selo.on{color:var(--acc);font-weight:500}
+/* 多选：左侧常驻复选框。只在选中时显示对勾的话，外观和单选毫无区别，
+   用户根本看不出能多选。 */
+.sel.multi .selo{position:relative;padding-left:11px}
+.sel.multi .selo .ic{display:none}
+.sel.multi .selo::before{content:'';flex-shrink:0;width:15px;height:15px;border-radius:4.5px;
+  border:1.5px solid var(--bd);background:var(--card);transition:background .14s var(--e),border-color .14s var(--e)}
+.sel.multi .selo::after{content:'';position:absolute;left:16px;top:50%;width:4px;height:8px;
+  border:2px solid #fff;border-top:0;border-left:0;transform:translateY(-62%) rotate(45deg);
+  opacity:0;transition:opacity .14s var(--e)}
+.sel.multi .selo:hover::before{border-color:var(--tx3)}
+.sel.multi .selo.on::before{background:var(--acc);border-color:var(--acc)}
+.sel.multi .selo.on::after{opacity:1}
 .sel.multi .selo.on{background:var(--accBg)}
 .sel.multi .selp{padding-bottom:5px}
+.lb .opt{font-weight:400;color:var(--tx3);margin-left:5px}
 .selo .ic{opacity:0}
 .selo.on .ic{opacity:1}
 
@@ -1415,10 +1428,11 @@ input::placeholder,textarea::placeholder{color:var(--tx3)}
 /* 策略行 */
 .pol{display:flex;gap:11px;align-items:center;padding:11px 12px;border:1px solid var(--bd2);border-radius:11px;margin-bottom:7px;background:var(--card);transition:border-color .16s var(--e),background .16s var(--e),opacity .16s,box-shadow .16s var(--e)}
 .pol:hover{border-color:var(--bd);background:var(--hov)}
-/* 拖拽中：内容保持可见，只淡化微缩。早先用 visibility:hidden 抹掉内容，
-   行高还占着，看起来像列表中间破了个洞。 */
-.pol.drag{opacity:.38;transform:scale(.985);background:var(--hov);border-color:var(--accBd)}
-.pol.drag .grip{color:var(--acc)}
+/* 拖拽中：原行退成虚线空槽，作为落点指示。
+   浏览器会另外渲染一张跟随鼠标的元素快照，原行若还留着淡淡的内容，
+   两者叠在一起就是重影。用 opacity:0 抹掉内容但保留行高。 */
+.pol.drag{background:var(--accBg);border:1.5px dashed var(--accBd);box-shadow:none}
+.pol.drag > *{opacity:0}
 .pol{cursor:default}
 .pol[draggable="true"]{cursor:grabbing}
 .pol.off{opacity:.5}
@@ -1648,8 +1662,9 @@ function selectHTML(id, opts, val, multi){
 function selLabel(opts, picked, multi){
   const names = picked.map(v => (opts.find(o => o.v === v) || {}).label).filter(Boolean)
   if (!names.length) return multi ? '未选择' : (opts[0] || {}).label || ''
-  if (!multi || names.length === 1) return names[0]
-  return names.length <= 2 ? names.join('、') : \`\${names[0]} 等 \${names.length} 项\`
+  if (!multi) return names[0]
+  if (names.length === 1) return names[0] + '（已选 1 项）'
+  return names.length === 2 ? names.join('、') : \`\${names[0]} 等 \${names.length} 项\`
 }
 // 读取当前值：单选得字符串，多选得数组
 function selValue(sel){
@@ -2317,9 +2332,9 @@ window.editPol = async (i) => {
   const html = \`
     <div class="fg"><label class="lb">策略名称</label>
       <input id="pn" value="\${esc(p.name)}" placeholder="如 🎬 流媒体"></div>
-    <div class="fg"><label class="lb">分流目标</label>
+    <div class="fg"><label class="lb">分流目标<span class="opt">可多选</span></label>
       \${selectHTML('pt', POL.targets, Array.isArray(p.target) ? p.target : [p.target || 'all'], true)}
-      <div class="hint">可多选。选中的会按顺序放进该策略的节点组，客户端里可自行切换；第一个为默认。</div></div>
+      <div class="hint">选中的会按顺序放进该策略的节点组，客户端里可自行切换，第一个为默认。</div></div>
     <div class="fg"><label class="lb">严格模式</label>
       <div class="row"><button class="sw" id="ps" data-on="\${p.strict?1:0}"><i></i></button>
         <span class="hint" style="margin:0">开启后组内只有目标本身，目标不可用即断流，不会静默回落到其它地区。</span></div></div>

diff --git a/README.md b/README.md
@@ -23,15 +23,14 @@
 
 ## 截图
 
-> 下面四张需要你部署后自己截一下：打开 `/admin`，分别在四个界面截图存到 `docs/`。
-> 仓库里的 `docs/demo.html` 是一份带示例数据的静态演示页，直接用浏览器打开也能截。
+> 截自 `docs/demo.html` —— 一份内置示例数据的静态演示页，用浏览器直接打开即可试玩全部交互，不用部署。
 
 | | |
 |---|---|
 | ![节点](docs/01-nodes.png) | ![订阅](docs/02-subs.png) |
 | 节点页：自建节点、机场源用量与到期、按地区折叠的节点列表 | 订阅页：多份订阅，各自的地址与内容摘要 |
 | ![分流策略](docs/03-policies.png) | ![策略编辑](docs/04-editor.png) |
-| 分流策略：拖拽排序即调整优先级，可切换编辑对象 | 策略编辑：分流目标、严格模式、引用域名集 |
+| 分流策略：拖拽排序即调整优先级，可切换编辑对象 | 策略编辑：分流目标可多选，同时指向多个节点 |
 
 ## 部署
 
@@ -71,7 +70,7 @@ bash deploy.sh
 
 每条策略可配：
 
-- **分流目标** — 自有节点 / 机场地区组 / 全部节点 / 直连 / 拒绝
+- **分流目标** — 自有节点 / 机场地区组 / 全部节点 / 直连 / 拒绝，**可多选**：选多个时组内按延迟自动择优，主节点挂了自动切备用
 - **严格模式** — 组内只放目标本身，目标不可用即断流。AI 类建议开启：静默回落会让出口悄悄变成机房 IP，比断流更难察觉
 - **引用域名集** — 从 13 组内置域名库里选，也可新建；改一处，所有引用它的策略同步生效
 - **额外域名 / 关键词 / 进程名** — 策略私有的补充规则
@@ -110,7 +109,7 @@ bash deploy.sh
 ## 开发
 
 ```bash
-node test/run.cjs     # 187 项断言
+node test/run.cjs     # 221 项断言
 bash deploy.sh        # 部署
 ```
 
